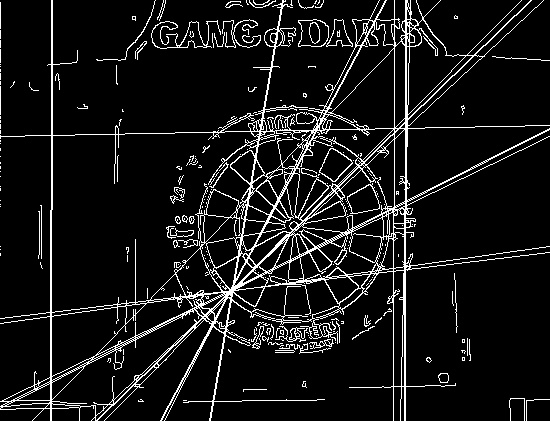
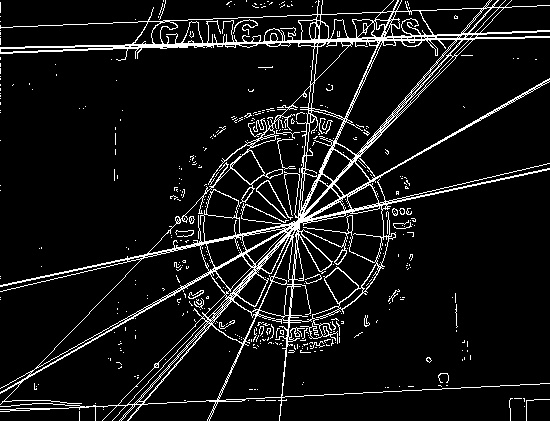
edited hough2.py and got some working

diff --git a/hough2.py b/hough2.py
@@ -1,15 +1,22 @@
 import cv2 as cv, sys, numpy as np
+import pprint as pp
+np.set_printoptions(threshold=sys.maxsize)
+
 #   edge detection opencv function
 
+#first i will read the image and create the binary version using Canny
 
 img = cv.imread('images/positives/'+sys.argv[1])
-edges = cv.Canny(image=img, threshold1 = 300, threshold2 = 500 )
+edges = cv.Canny(image=img, threshold1 = 500, threshold2 = 500 )
 cv.imwrite('edges.jpg', edges)
-# cv.imwrite('edge.jpg',img)
-thetas = (np.arange(-np.pi/2, np.pi/2, np.pi/180 ))
+
+# thetas is an array of all the angles i will be calculating lines for in image space
+thetas = np.deg2rad(np.arange(-90.0, 90.0))
 width = edges.shape[0]
 height = edges.shape[1]
+# max is the maximum possible rho value for a line in image space
 max = int(round(np.sqrt((width**2) + (height**2))))
+# rhos is a list of all possible rho values to the nearest integer up to the max
 rhos = np.arange(0, max, 1)
 
 def hough_line(edge_threshold=5, vote_threshold=1):
@@ -21,38 +28,35 @@ def hough_line(edge_threshold=5, vote_threshold=1):
 
 
     # (row, col) indexes to edges
-    edges[edges < edge_threshold] = 0
-    Ys, Xs = np.nonzero(edges)
     votes = np.zeros((len(rhos), len(thetas)))
-    print(votes[692][179])
-    print(votes.shape)
 
     # Vote in the hough accumulator
 
-    for i in range(len(Xs)):
-        x = Xs[i]
-        y = Ys[i]
-        for j in range(len(thetas)):
-            rho = int(round(abs((x * cos_theta[j]) + (y * sin_theta[j]))))
-            votes[rho][j] = votes[rho][j]+1
-
+    for i in range(width):
+        for j in range(height):
+            if(edges[i][j] != 0):
+                x = i+1
+                y = j+1
+                for t in range(0, len(thetas)):
+                    rho = int(round(abs((x * cos_theta[t]) + (y * sin_theta[t]))))
+                    votes[rho][t] = votes[rho][t]+1
     return votes, thetas, rhos
 
 
 def hough2line(votes, thetas, rhos):
     t = np.amax(votes)/2
+    print(t)
     lines = np.argwhere(votes > t)
-    print(len(lines))
     for l1 in range(len(lines)):
         x = int(lines[l1][0] + 1)
         y = round(np.deg2rad(int(lines[l1][1] + 1)), 2)
-        print(x, y)
+        # print(x, y)
         m = ((-np.cos(y))/(np.sin(y)))
         c = (x/(np.sin(y)))
-        print(m, c)
+        # print(m, c)
         pt1 = (0, int(c))
         pt2 = ((int((c)/m)), 0)
-        print(pt1, pt2)
+        # print(pt1, pt2)
         cv.line(edges, pt1, pt2, (255, 255, 255), 1)
     cv.imwrite('detectedline.jpg', edges )
 

diff --git a/hough3.py b/hough3.py
@@ -1,0 +1,56 @@
+import numpy as np
+import cv2 as cv
+import sys
+import math
+
+img = cv.imread('images/positives/'+sys.argv[1])
+edges = cv.Canny(image=img, threshold1 = 300, threshold2 = 500 )
+
+
+def hough_line(img, angle_step=1, lines_are_white=True, value_threshold=5):
+    """
+    Hough transform for lines
+    Input:
+    img - 2D binary image with nonzeros representing edges
+    angle_step - Spacing between angles to use every n-th angle
+                 between -90 and 90 degrees. Default step is 1.
+    lines_are_white - boolean indicating whether lines to be detected are white
+    value_threshold - Pixel values above or below the value_threshold are edges
+    Returns:
+    accumulator - 2D array of the hough transform accumulator
+    theta - array of angles used in computation, in radians.
+    rhos - array of rho values. Max size is 2 times the diagonal
+           distance of the input image.
+    """
+    # Rho and Theta ranges
+    thetas = np.deg2rad(np.arange(-90.0, 90.0, angle_step))
+    width, height = img.shape
+    diag_len = int(round(math.sqrt(width * width + height * height)))
+    rhos = np.linspace(-diag_len, diag_len, diag_len * 2)
+
+    # Cache some resuable values
+    cos_t = np.cos(thetas)
+    sin_t = np.sin(thetas)
+    num_thetas = len(thetas)
+
+    # Hough accumulator array of theta vs rho
+    accumulator = np.zeros((2 * diag_len, num_thetas), dtype=np.uint8)
+    # (row, col) indexes to edges
+    are_edges = img > value_threshold if lines_are_white else img < value_threshold
+    y_idxs, x_idxs = np.nonzero(are_edges)
+
+    # Vote in the hough accumulator
+    for i in range(len(x_idxs)):
+        x = x_idxs[i]
+        y = y_idxs[i]
+
+        for t_idx in range(num_thetas):
+            # Calculate rho. diag_len is added for a positive index
+            rho = diag_len + int(round(x * cos_t[t_idx] + y * sin_t[t_idx]))
+            accumulator[rho, t_idx] += 1
+    nons = np.argwhere(np.nonzero(accumulator))
+    print(nons)
+    return accumulator, thetas, rhos
+
+
+hough_line(edges)

diff --git a/hough.py b/hough.py
@@ -50,7 +50,6 @@ def hough2line(votes, voters, thetas, rhos):
         theta = Ts[i]
         print(rho, theta)
         min = np.min(voters[theta][rho])
-        print(min)
         max = np.max(voters[theta][rho])
 
     img = cv.line(img, min, max, (0, 255, 0), 2)
